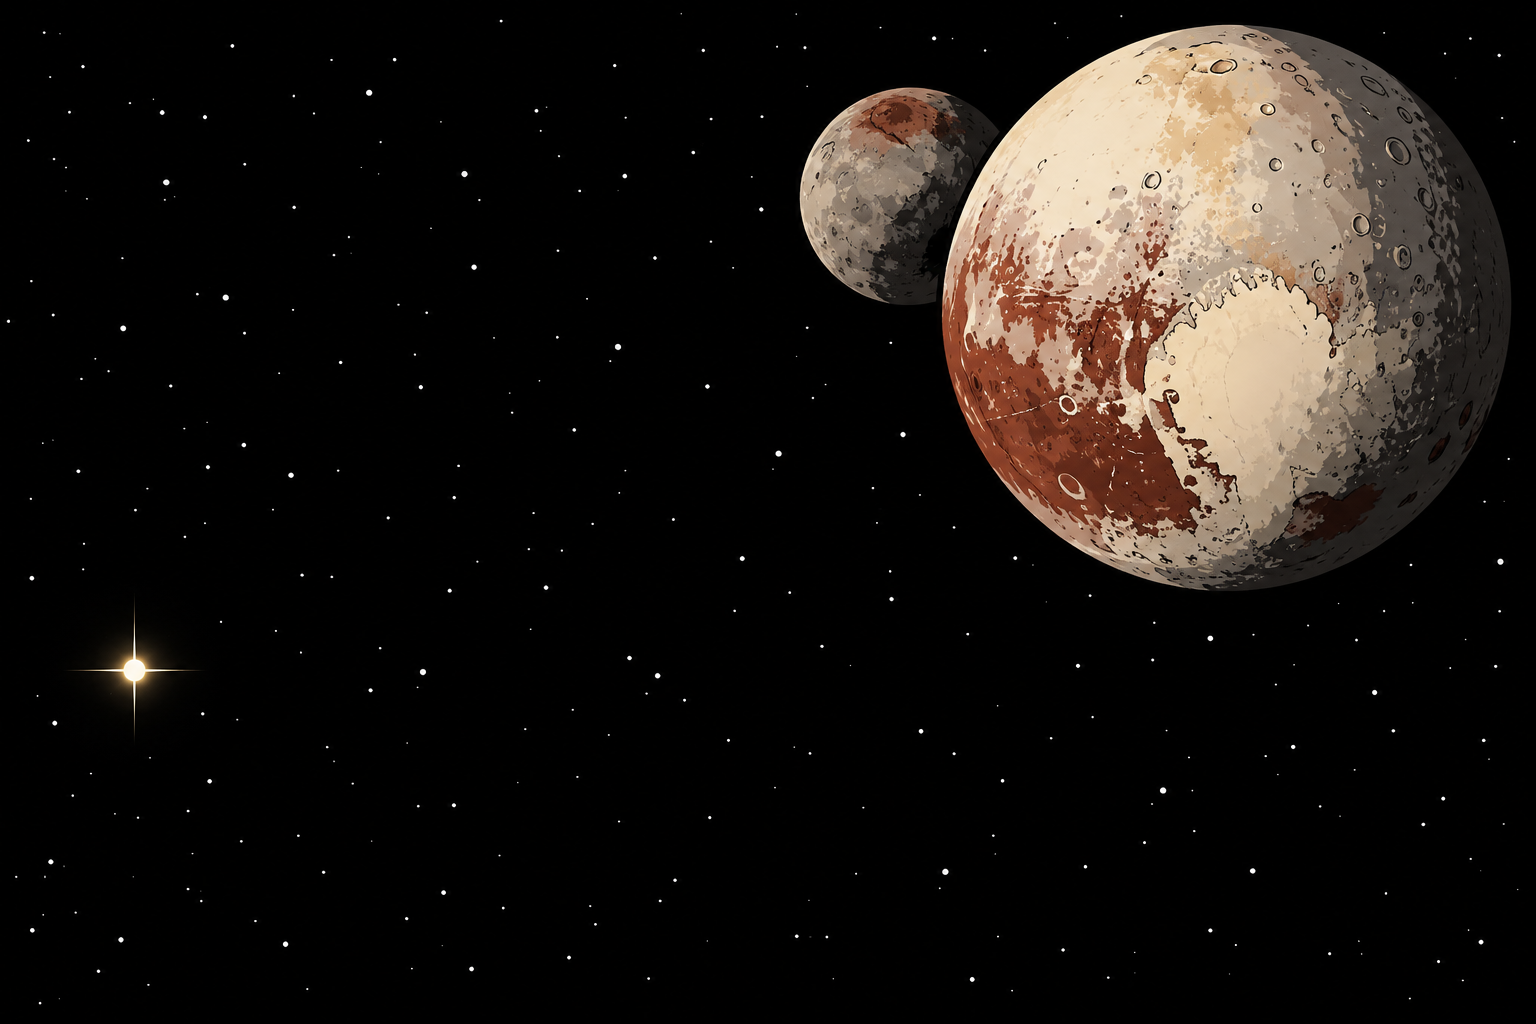
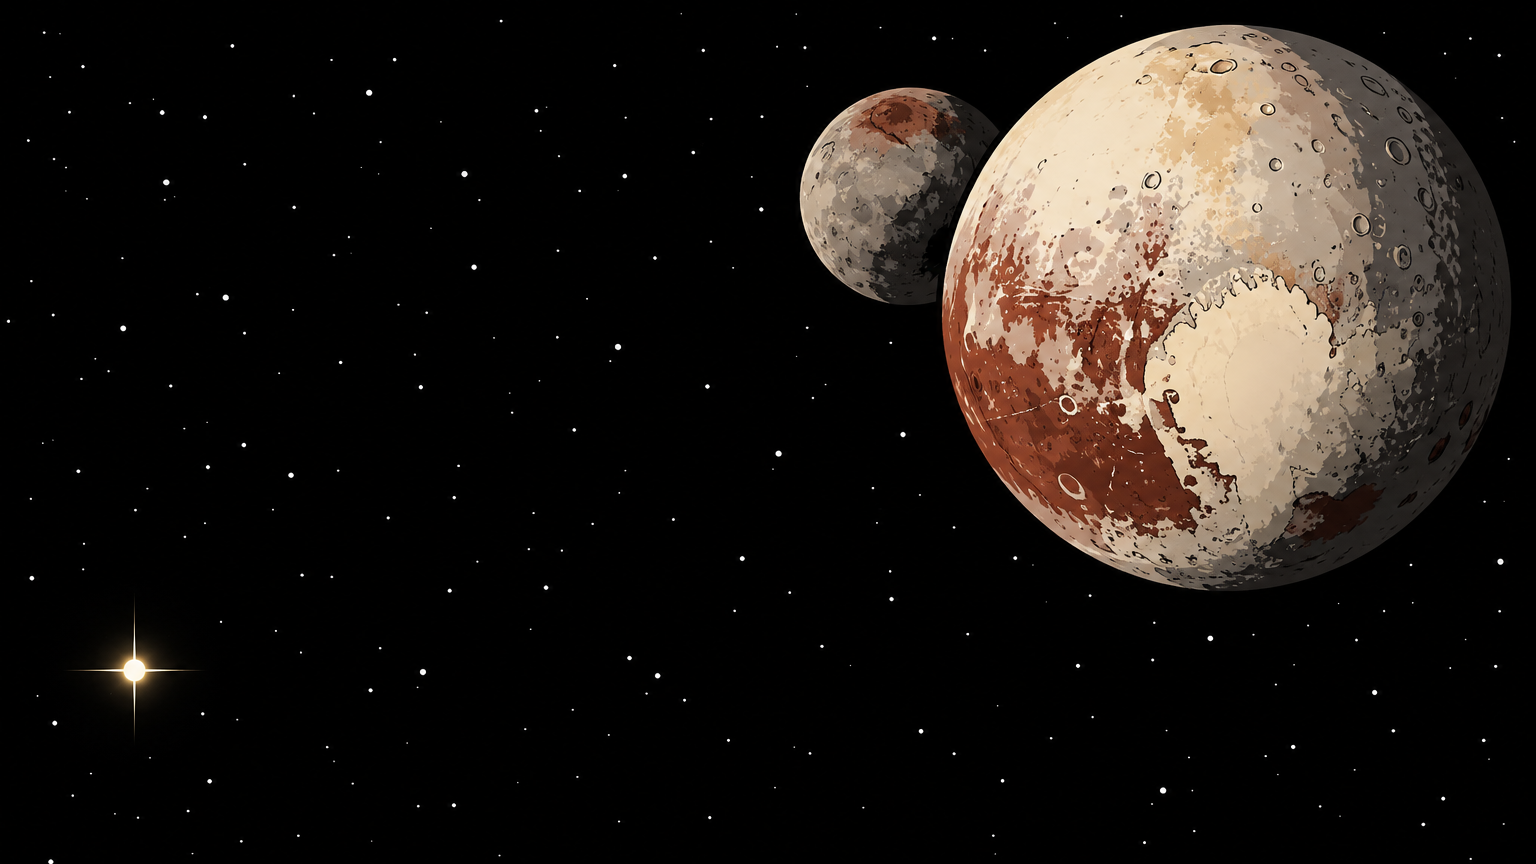
Nix, fase 3 step 1: configurazione per satellite (levels.SATELLITES: fondali, terreno, gravita', ossigeno, tappe, ondate, cavi, mappe); Gfx.load_world carica il mondo del livello; goblin legge tutto da cfg; niente pioggia dove non c'e' aria; cielo di Nix 16:9; il salvataggio ricorda il satellite
Claude-Session: https://claude.ai/code/session_01RKU95F6zqrJWkD4oMxUkJK

Changed region(s): [[0.5, 0.0, 1.0, 0.6875], [0.0625, 0.7188, 0.125, 0.8125], [0.0625, 0.625, 0.125, 0.6875]]

diff --git a/goblin.py b/goblin.py
@@ -66,9 +66,7 @@ LOW_MARGIN = 110     # il suolo piu' basso li' vicino resta almeno cosi' sopra i
 FIGHT_RANGE = (520, 320)     # distanza (orizzontale, verticale) dei nemici che fanno avvicinare
 # Piani di parallasse sopra il cielo: (immagine, velocita', spostamento in giu',
 # foschia steso sopra). Il primo piano, davanti al mondo, corre piu' del terreno.
-PARALLAX = (("hills_far", 0.07, 0, 70), ("hills_01", 0.16, 0, 45),
-            ("colony_ruins", 0.28, 90, 30), ("hills_02", 0.42, 0, 38))
-FOG_COLOR = (196, 112, 58)
+# I piani di parallasse, la foschia e i fondali di ogni satellite stanno in levels (cfg()).
 DARKNESS, VISOR = 140, 640       # buio delle gallerie e raggio della luce della visiera
 FOREGROUND_SPEED, FOREGROUND_SINK = 1.35, 230
 CROWD = 6                    # con piu' nemici vicini di cosi' la telecamera resta larga      # margini oltre i quali la telecamera insegue un salto o una caduta
@@ -139,18 +137,10 @@ class Gfx:
     def __init__(self):
         # caratteri disegnati come terreno (le pareti "S" dell'arena sono invisibili)
         self.tiles = set("#DH")
-        # Terreno di Titano: l'immagine e' un'unica sezione di suolo alla Huygens.
-        # Si scala a TITAN_N x TITAN_N tessere, cosi' i ciottoli restano leggibili:
-        # la riga in alto e' la crosta calpestabile, le altre il sottosuolo.
-        self.titan_ground = None
-        if assets.has("titan_ground_grass"):
-            img = pygame.image.load(os.path.join(assets.DIR, "titan_ground_grass.png")).convert()
-            top = img.get_height() // 30          # striscia scura sopra la superficie
-            img = img.subsurface((0, top, img.get_width(), img.get_height() - top))
-            self.titan_ground = pygame.transform.smoothscale(img, (TILE * TITAN_N, TILE * TITAN_N))
-        # Roccia delle pareti e dei cumuli: strati di Titano, 4x4 tessere
-        rock = pygame.image.load(os.path.join(assets.DIR, "titan_rock.png")).convert()
-        self.titan_rock = pygame.transform.smoothscale(rock, (TILE * ROCK_N, TILE * ROCK_N))
+        # Terreno, roccia, fondali, stazione: cambiano col satellite (load_world)
+        self.world = None
+        self.ground = self.rock = self.station = self.foreground_low = None
+        self.pass_start, self.fog_color, self.sky_name, self.caves = 0, (0, 0, 0), None, True
         # Lago di metano: liquido scuro, un po' sotto il bordo, che riflette il cielo.
         depth = levels.LAKE_DEPTH * TILE
         self.titan_lake = pygame.Surface((TILE, depth), pygame.SRCALPHA)
@@ -205,10 +195,6 @@ class Gfx:
         for rad in range(VISOR, 0, -4):
             k = rad / VISOR
             pygame.draw.circle(self.visor_light, (255, 255, 255, int(255 * k ** 1.6)), (VISOR, VISOR), rad)
-        # Primo piano all'aperto: solo le sagome che salgono dal basso (quelle
-        # appese in alto servono sottoterra).
-        fg = assets.load("foreground", W, H, exact=True)
-        self.foreground_low = fg.subsurface((0, H * 55 // 100, W, H * 45 // 100)).copy()
         self.vignette = pygame.Surface((W, H), pygame.SRCALPHA)
         for i in range(60):
             a = int(90 * (1 - i / 60) ** 2)
@@ -246,10 +232,9 @@ class Gfx:
             h = max(TILE, round(img.get_height() * w / img.get_width() / TILE) * TILE)
             self.ladder_strip = pygame.Surface((LADDER_W * TILE, h), pygame.SRCALPHA)
             self.ladder_strip.blit(pygame.transform.smoothscale(img, (w, h)), (8, 0))
-        # Portello stagno dell'uscita, la capsula d'atterraggio, la stazione d'ossigeno
+        # Portello stagno dell'uscita, la capsula d'atterraggio
         self.airlock = assets.load("portello", TILE * 5, int(PH * 1.5), by_height=True)
         self.capsule = assets.load("capsula", TILE * 5, int(PH * 1.7), by_height=True)
-        self.station = assets.load("stazione_ossigeno", TILE * 3, int(PH * 1.05), by_height=True)
         self.player = player_images()
         self.sheets = {}
         # posa -> (file, colonne, righe): i fogli cartoon hanno griglie diverse
@@ -316,6 +301,36 @@ class Gfx:
             self.bg_cache["title"] = bg
         return self.bg_cache["title"]
 
+    def load_world(self, cfg):
+        """Il mondo di un satellite: terreno, roccia, stazione, primo piano, cielo
+        e foschia. Si carica quando il livello parte; lo stesso satellite non si
+        ricarica."""
+        if self.world == cfg["index"]:
+            return
+        self.world = cfg["index"]
+        # Il terreno e' un'unica sezione di suolo, scalata a TITAN_N x TITAN_N
+        # tessere cosi' i ciottoli restano leggibili: la riga in alto e' la crosta
+        # calpestabile, le altre il sottosuolo. Su Titano si toglie la striscia
+        # scura sopra la superficie; su Nix la crosta coi cristalli e' gia' al bordo.
+        self.ground = None
+        if assets.has(cfg["ground"]):
+            img = pygame.image.load(os.path.join(assets.DIR, cfg["ground"] + ".png")).convert()
+            if cfg["ground_top_cut"]:
+                top = img.get_height() // 30
+                img = img.subsurface((0, top, img.get_width(), img.get_height() - top))
+            self.ground = pygame.transform.smoothscale(img, (TILE * TITAN_N, TILE * TITAN_N))
+        # Roccia delle pareti e dei cumuli, 4x4 tessere
+        rock = pygame.image.load(os.path.join(assets.DIR, cfg["rock"] + ".png")).convert()
+        self.rock = pygame.transform.smoothscale(rock, (TILE * ROCK_N, TILE * ROCK_N))
+        self.station = assets.load(cfg["station"], TILE * 3, int(PH * 1.05), by_height=True)
+        # Primo piano all'aperto: solo le sagome che salgono dal basso (quelle
+        # appese in alto servono sottoterra).
+        fg = assets.load(cfg["foreground"], W, H, exact=True)
+        self.foreground_low = fg.subsurface((0, H * 55 // 100, W, H * 45 // 100)).copy()
+        self.pass_start, self.fog_color, self.sky_name, self.caves = (cfg["pass_start"], cfg["fog_color"],
+                                                                       cfg["sky"], cfg["caves"])
+        self.bg_cache = {k: v for k, v in self.bg_cache.items() if k[0] == "title"}
+
     def titan_tile(self, ch, c, r, part=0):
         if ch == "H":
             if self.ladder_strip:
@@ -323,22 +338,22 @@ class Gfx:
                 y = (r * TILE) % self.ladder_strip.get_height()
                 return self.ladder_strip.subsurface((part % LADDER_W * TILE, y, TILE, TILE))
             return self.titan_ladder
-        if self.titan_ground is None or ch not in "#D":
+        if self.ground is None or ch not in "#D":
             return None
-        if ch == "D" and r > GROUND + 2 and self.cave_rock and c >= levels.TITAN_PASS_START:
+        if ch == "D" and r > GROUND + 2 and self.cave_rock and self.caves and c >= self.pass_start:
             # sotto la crosta: la roccia scura delle gallerie
             return self.cave_rock.subsurface(((c % ROCK_N) * TILE, (r % ROCK_N) * TILE, TILE, TILE))
         if ch == "D" and r < GROUND:
             # sopra il livello del suolo e' parete o cumulo: roccia a strati
-            return self.titan_rock.subsurface(((c % ROCK_N) * TILE, (r % ROCK_N) * TILE, TILE, TILE))
+            return self.rock.subsurface(((c % ROCK_N) * TILE, (r % ROCK_N) * TILE, TILE, TILE))
         row = 0 if ch == "#" else 1 + r % (TITAN_N - 1)
-        return self.titan_ground.subsurface(((c % TITAN_N) * TILE, row * TILE, TILE, TILE))
+        return self.ground.subsurface(((c % TITAN_N) * TILE, row * TILE, TILE, TILE))
 
-    def wide_sky(self, num, pan):
+    def wide_sky(self, name, pan):
         """Cielo allargato di `pan` pixel, in proporzione, ancorato in basso."""
-        key = ("wide_sky", num, pan)
+        key = ("wide_sky", name, pan)
         if key not in self.bg_cache:
-            sky = self.background("sky", num)
+            sky = self.background(name, None)
             k = (W + pan) / sky.get_width()
             self.bg_cache[key] = pygame.transform.smoothscale(sky, (W + pan, int(sky.get_height() * k)))
         return self.bg_cache[key]
@@ -407,7 +422,7 @@ class Gfx:
                 keep *= 1 - alpha / 255 * profile
             out = img.copy()
             rgb = pygame.surfarray.pixels3d(out)
-            rgb[:] = (rgb * keep[None, :, None] + numpy.array(FOG_COLOR) * (1 - keep[None, :, None])).astype("uint8")
+            rgb[:] = (rgb * keep[None, :, None] + numpy.array(self.fog_color) * (1 - keep[None, :, None])).astype("uint8")
             del rgb
             self.bg_cache[key] = out
         return self.bg_cache[key]
@@ -1336,8 +1351,8 @@ class Game:
         self.screen = pygame.display.set_mode((W, H), flags)
         self.luce, self.freed = 0, set()      # Luce di Bianca e prigionieri gia' liberati
         self.sparks, self.shake = [], 0       # scintille dei colpi e scossa dello schermo
-        self.reached_pass = False             # su Titano: arrivati alla traversata
-        self.stage = 0                        # ultima tappa raggiunta (levels.TITAN_STAGES)
+        self.reached_pass = False             # arrivati alla traversata
+        self.stage = 0                        # ultima tappa raggiunta (cfg["stages"])
         self.nova_used, self.nova_t = False, 0  # Nova: una per livello, e la sequenza in corso
         pygame.display.set_caption("NightKnight")
         self.clock = pygame.time.Clock()
@@ -1373,7 +1388,7 @@ class Game:
             self.saved["checkpoint"] = None
         elif checkpoint:
             self.saved["checkpoint"] = {
-                "cemetery": 0, "part": self.part, "lives": self.lives, "score": self.score,
+                "cemetery": 0, "satellite": self.ci, "part": self.part, "lives": self.lives, "score": self.score,
                 "luce": self.luce, "freed": sorted(list(f) for f in self.freed),
                 "pass": self.reached_pass, "stage": self.stage, "nova": self.nova_used,
             }
@@ -1382,12 +1397,14 @@ class Game:
     def continue_game(self):
         cp = self.saved["checkpoint"]
         if cp:
-            self.ci, self.lives, self.score = 0, cp["lives"], cp["score"]
+            sat = cp.get("satellite", 0)
+            self.ci = sat if type(sat) is int and 0 <= sat < len(levels.SATELLITES) else 0
+            self.lives, self.score = cp["lives"], cp["score"]
             self.luce = max(0, min(LUCE_MAX, int(cp.get("luce", 0))))
             self.reached_pass = cp.get("pass") is True
             self.nova_used = cp.get("nova") is True
             stage = cp.get("stage", 0)
-            self.stage = stage if type(stage) is int and 0 <= stage < len(levels.TITAN_STAGES) else 0
+            self.stage = stage if type(stage) is int and 0 <= stage < len(levels.cfg(self.ci)["stages"]) else 0
             self.freed = {tuple(f) for f in cp.get("freed", []) if isinstance(f, list) and len(f) == 3}
             self.start_part(cp["part"])
 
@@ -1443,8 +1460,10 @@ class Game:
             self.stage = 0
         c = levels.cfg(self.ci)
         self.cfg = c
+        self.gfx.load_world(c)
+        self.o2_drain = OXYGEN_MAX / (c["oxygen_seconds"] * 60)
         self.part = part
-        g = {"surface": levels.gen_surface, "arena": levels.gen_arena}[part]()
+        g = c[part]()
         self.lv = Level(g, part)
         self.rounds = [0, 0]
         self.nova_t = 0
@@ -1486,14 +1505,15 @@ class Game:
         self.effects = []
         self.intro = 0
         self.cable = None
+        cfg = self.cfg
         if self.part == "surface":
-            x0 = levels.TITAN_PASS_START * TILE
-            speeds = iter(levels.ROPE_SPEEDS)
+            x0 = cfg["pass_start"] * TILE
+            speeds = iter(cfg["rope_speeds"])
             self.cable = athletics.Cables([[athletics.Cable(x0 + col * TILE + TILE // 2, athletics.FLOOR - top, length,
                                                             next(speeds))
-                                            for col, top, length in group] for group in levels.TITAN_CABLES])
-            for kind, col, row in levels.TITAN_PASS_FOES:
-                col += levels.TITAN_PASS_START
+                                            for col, top, length in group] for group in cfg["cables"]])
+            for kind, col, row in cfg["pass_foes"]:
+                col += cfg["pass_start"]
                 if kind in FLYERS:
                     flyer = Flyer(col * TILE, row * TILE, kind)
                     flyer.state = "wait"          # aspetta il passaggio, come i corvi di guardia
@@ -1504,17 +1524,18 @@ class Game:
                     self.skels.append(walker)
         self.waves = None
         if self.part == "surface":
-            self.waves = waves.WaveDirector(levels.TITAN_ARENAS, levels.TITAN_WAVES, self.make_walker, Flyer, seed=self.ci,
+            self.waves = waves.WaveDirector(cfg["arenas"], cfg["waves"], self.make_walker, Flyer, seed=self.ci,
                                             flyer_y=(VIEW_Y + 40, VIEW_Y + 260),
-                                            patrols=levels.TITAN_PATROLS, patrol_end=levels.TITAN_PASS_START * TILE)
+                                            patrols=cfg["patrols"], patrol_end=cfg["pass_start"] * TILE)
             self.waves.patrol_floor = GROUND * TILE
             # si riparte dall'ultima tappa: le ondate gia' passate restano superate
-            col, row = levels.TITAN_STAGES[self.stage]
+            col, row = cfg["stages"][self.stage]
             p.x, p.y = col * TILE + (TILE - p.w) / 2, row * TILE - p.h
             for w in self.waves.waves:
                 if w.x1 < col * TILE:
                     w.state = "done"
-            self.waves.next_patrol = max(self.waves.next_patrol, (col + levels.TITAN_PATROLS["every"]) * TILE)
+            if cfg["patrols"]:
+                self.waves.next_patrol = max(self.waves.next_patrol, (col + cfg["patrols"]["every"]) * TILE)
             self.camy = self.camy_target = max(0, p.rect.bottom - FEET_IN_VIEW)
             self.bianca = Bianca(p)
             self.dark = 1.0 if row > levels.CAVE_TOP else 0.0
@@ -1524,7 +1545,7 @@ class Game:
     def flat_ground(self, x, feet):
         """Terreno vero per un verme: il suolo base (niente colline, gradini o cengie),
         in piano per WORM_FLAT tessere da ogni lato, senza laghi."""
-        if self.part == "surface" and x < levels.TITAN_PASS_START * TILE and feet != GROUND * TILE:
+        if self.part == "surface" and x < self.cfg["pass_start"] * TILE and feet != GROUND * TILE:
             return False
         for d in range(-WORM_FLAT, WORM_FLAT + 1):
             cx = x + d * TILE
@@ -2017,7 +2038,7 @@ class Game:
                 self.jb.fx("air")
             p.oxygen = min(OXYGEN_MAX, p.oxygen + OXYGEN_REFILL)
         else:
-            p.oxygen = max(0, p.oxygen - OXYGEN_DRAIN * (SPRINT_O2 if p.sprinting else 1))
+            p.oxygen = max(0, p.oxygen - self.o2_drain * (SPRINT_O2 if p.sprinting else 1))
             if p.oxygen == 0 and self.frame % 90 == 0:
                 self.jb.fx("pant")                  # senz'aria: si ansima, non si muore
         for vent in self.vents:
@@ -2036,12 +2057,12 @@ class Game:
             self.next_part()
             return
         if self.part == "surface":
-            stages = levels.TITAN_STAGES
+            stages = self.cfg["stages"]
             moved = False
             while self.stage + 1 < len(stages) and p.rect.centerx > stages[self.stage + 1][0] * TILE:
                 self.stage += 1                     # nuova tappa: da qui si riparte
                 moved = True
-            if not self.reached_pass and p.x > levels.TITAN_PASS_START * TILE:
+            if not self.reached_pass and p.x > self.cfg["pass_start"] * TILE:
                 self.reached_pass = True
                 self.jb.play("trials")
             if moved:
@@ -2356,16 +2377,17 @@ class Game:
         s, cam, lv = self.screen, self.cam, self.lv
         # In verticale i piani lontani si spostano meno di quelli vicini.
         lift = (VIEW_Y - self.camy) * ZOOM
-        s.fill((34, 16, 8))
+        parallax = self.cfg["parallax"]
+        s.fill(self.cfg["bg_color"])
         # Il cielo non si ripete: e' appena piu' largo dello schermo e scorre
         # pochissimo, cosi' Saturno resta uno solo.
-        fogs = tuple(fog for *_, fog in PARALLAX)
-        sky = self.gfx.wide_sky(1, SKY_PAN)
+        fogs = tuple(fog for *_, fog in parallax)
+        sky = self.gfx.wide_sky(self.cfg["sky"], SKY_PAN)
         sky = self.gfx.fogged(sky, fogs, H - sky.get_height())
         off = -min(SKY_PAN, int(cam * SKY_PAN / max(1, lv.cols * TILE - W, W)))
         s.blit(sky, (off, H - sky.get_height() + int(lift * 0.04)))
         # Ogni piano si ripete alternando una copia specchiata: niente cuciture.
-        for i, (name, speed, dy, _) in enumerate(PARALLAX):
+        for i, (name, speed, dy, _) in enumerate(parallax):
             layer = self.gfx.mirrored(self.gfx.fogged(self.gfx.layer(name), fogs[i:], dy))
             off = -(int(cam * speed) % layer.get_width())
             for x in range(off, W, layer.get_width()):
@@ -2373,7 +2395,7 @@ class Game:
         # Sotto la crosta non c'e' cielo: dietro le gallerie si vede la caverna.
         vx, vy, cw, ch = self.view_rect()
         ground = int((GROUND * TILE + TILE - self.camy - vy) * H / ch)
-        if ground < H:
+        if ground < H and self.cfg["caves"]:
             cave = self.gfx.mirrored(self.gfx.layer("cave_bg"))
             off = -(int(cam * 0.3) % cave.get_width())
             clip = s.get_clip()
@@ -2469,9 +2491,9 @@ class Game:
 
     def draw_cave_props(self, s, cam, lv):
         """Stalattiti, stalagmiti, puntelli e rottami della colonia nelle gallerie."""
-        if lv.kind != "surface":
+        if lv.kind != "surface" or not self.cfg["caves"]:
             return
-        x0 = levels.TITAN_PASS_START * TILE - cam
+        x0 = self.cfg["pass_start"] * TILE - cam
         mouth = self.gfx.cave_mouth
         if mouth:
             x = x0 + levels.CAVE_MOUTH * TILE
@@ -2490,7 +2512,10 @@ class Game:
                 s.blit(img, (x, levels.CAVE_FLOOR * TILE - img.get_height() + 6))
 
     def draw_drizzle(self, s):
-        """Pioviggine di metano: gocce lente e pesanti, in diagonale, davanti a tutto."""
+        """Pioviggine di metano: gocce lente e pesanti, in diagonale, davanti a tutto.
+        Solo dove c'e' un'atmosfera (cfg["drizzle"])."""
+        if not self.cfg["drizzle"]:
+            return
         if not hasattr(self, "drops"):
             rnd = random.Random(7)
             self.drops = [(rnd.randrange(W), rnd.randrange(H), rnd.uniform(3, 6)) for _ in range(140)]

diff --git a/levels.py b/levels.py
@@ -42,15 +42,13 @@ def weapon_cfg(i):
 
 
 def cfg(i=0):
-    """Configurazione del satellite. Per ora e' giocabile solo Titano."""
+    """Configurazione del satellite i (0 Titano, 1 Nix): nome, Guardiano, gravita',
+    aria, e tutto il mondo (fondali, terreno, mappe, tappe, ondate, cavi).
+    Le mappe sono funzioni, chiamate quando il livello parte."""
     import knights
-    boss, _, _, color, _ = knights.KNIGHTS[0]
-    return {
-        "index": 0, "num": 1, "name": "Titano", "boss": boss, "color": color,
-        "gravity": "bassa", "gravity_scale": .84, "air": "densa, azoto e metano",
-        "climate": "nebbia arancione, pioviggine di metano", "affinity": "cryo",
-        "fauna": ("corvi", "meduse", "minatori", "lucertole criogeniche", "vermi di silicio"),
-    }
+    sat = SATELLITES[i]
+    boss, _, _, color, _ = knights.KNIGHTS[i]
+    return dict(sat, index=i, num=i + 1, boss=boss, color=color)
 
 
 def _grid(cols):
@@ -362,3 +360,54 @@ def _cave_worms():
 
 
 TITAN_PASS_FOES = [f for f in TITAN_PASS_FOES if f[0] not in ("worm", "burrower", "crawler")] + _cave_worms()
+
+
+# ---------------------------------------------------------------- i satelliti
+# Ogni satellite e' un dizionario: quello che cambia da un mondo all'altro sta
+# qui, il codice del gioco legge solo da cfg(). I fondali: cielo (non si ripete),
+# piani di parallasse (nome, velocita', spostamento verticale, foschia che
+# stende sui piani dietro), primo piano, colore della foschia e del fondo.
+TITAN = {
+    "name": "Titano", "gravity": "bassa", "gravity_scale": .84, "air": "densa, azoto e metano",
+    "climate": "nebbia arancione, pioviggine di metano", "affinity": "cryo",
+    "fauna": ("corvi", "meduse", "minatori", "lucertole criogeniche", "vermi di silicio"),
+    "oxygen_seconds": 150,
+    "sky": "sky_01", "parallax": (("hills_far", 0.07, 0, 70), ("hills_01", 0.16, 0, 45),
+                                  ("colony_ruins", 0.28, 90, 30), ("hills_02", 0.42, 0, 38)),
+    "foreground": "foreground", "fog_color": (196, 112, 58), "bg_color": (34, 16, 8),
+    "ground": "titan_ground_grass", "ground_top_cut": True, "rock": "titan_rock",
+    "station": "stazione_ossigeno", "caves": True, "night": 0.0, "drizzle": True,
+    "surface": gen_surface, "arena": gen_arena, "pass_start": TITAN_PASS_START,
+    "stages": TITAN_STAGES, "arenas": TITAN_ARENAS, "waves": TITAN_WAVES, "patrols": TITAN_PATROLS,
+    "pass_foes": TITAN_PASS_FOES, "cables": TITAN_CABLES, "rope_speeds": ROPE_SPEEDS,
+}
+
+
+def gen_nix_surface():
+    """Nix: per ora un tratto piano con l'uscita (la mappa vera arriva con i passi
+    successivi della fase 3 e con la fase 4)."""
+    cols = 60
+    g = _grid(cols)
+    _rock(g, 0, cols, 0)
+    g[GROUND - 1][1] = "P"
+    g[GROUND - 1][cols - 4] = "E"
+    return g
+
+
+NIX_STAGES = [(2, GROUND)]
+NIX = {
+    "name": "Nix", "gravity": "minima", "gravity_scale": .55, "air": "nessuna",
+    "climate": "notte, stelle fisse, Plutone nel cielo", "affinity": "lumen",
+    "fauna": ("pipistrelli del vuoto", "falene ossee", "custodi senza volto", "ragni da condotto",
+              "copie difettose"),
+    "oxygen_seconds": 100,
+    "sky": "nix_sky", "parallax": (("nix_hills_far", 0.07, 0, 0), ("nix_hills_01", 0.16, 0, 0),
+                                   ("nix_ruins", 0.28, 90, 0), ("nix_hills_02", 0.42, 0, 0)),
+    "foreground": "nix_foreground", "fog_color": (0, 0, 0), "bg_color": (0, 0, 0),
+    "ground": "nix_ground", "ground_top_cut": False, "rock": "nix_rock",
+    "station": "nix_station", "caves": False, "night": 0.75, "drizzle": False,
+    "surface": gen_nix_surface, "arena": gen_arena, "pass_start": 60,
+    "stages": NIX_STAGES, "arenas": [], "waves": [], "patrols": None,
+    "pass_foes": [], "cables": [], "rope_speeds": (),
+}
+SATELLITES = [TITAN, NIX]

diff --git a/knights.py b/knights.py
@@ -22,6 +22,8 @@ REAL_H = 192              # altezza dello sprite di NightKnight
 # nome, arma, portata arma, colore, mosse
 KNIGHTS = [
     ("Guardiano di Titano", "alabarda", 170, (200, 205, 225), ["slash", "hook", "kick", "heavy", "hook", "slash"]),
+    # il Guardiano di Nix: la lancia-antenna (le mosse vere arrivano con la fase 4)
+    ("Guardiano di Nix", "lancia", 190, (188, 150, 236), ["thrust", "thrust", "wave", "dashthrust", "dive", "kick"]),
 ]
 
 # libreria delle mosse: total, finestra attiva (a, b), portata, altezza (offset y, h), danno extra, tipo, pose
